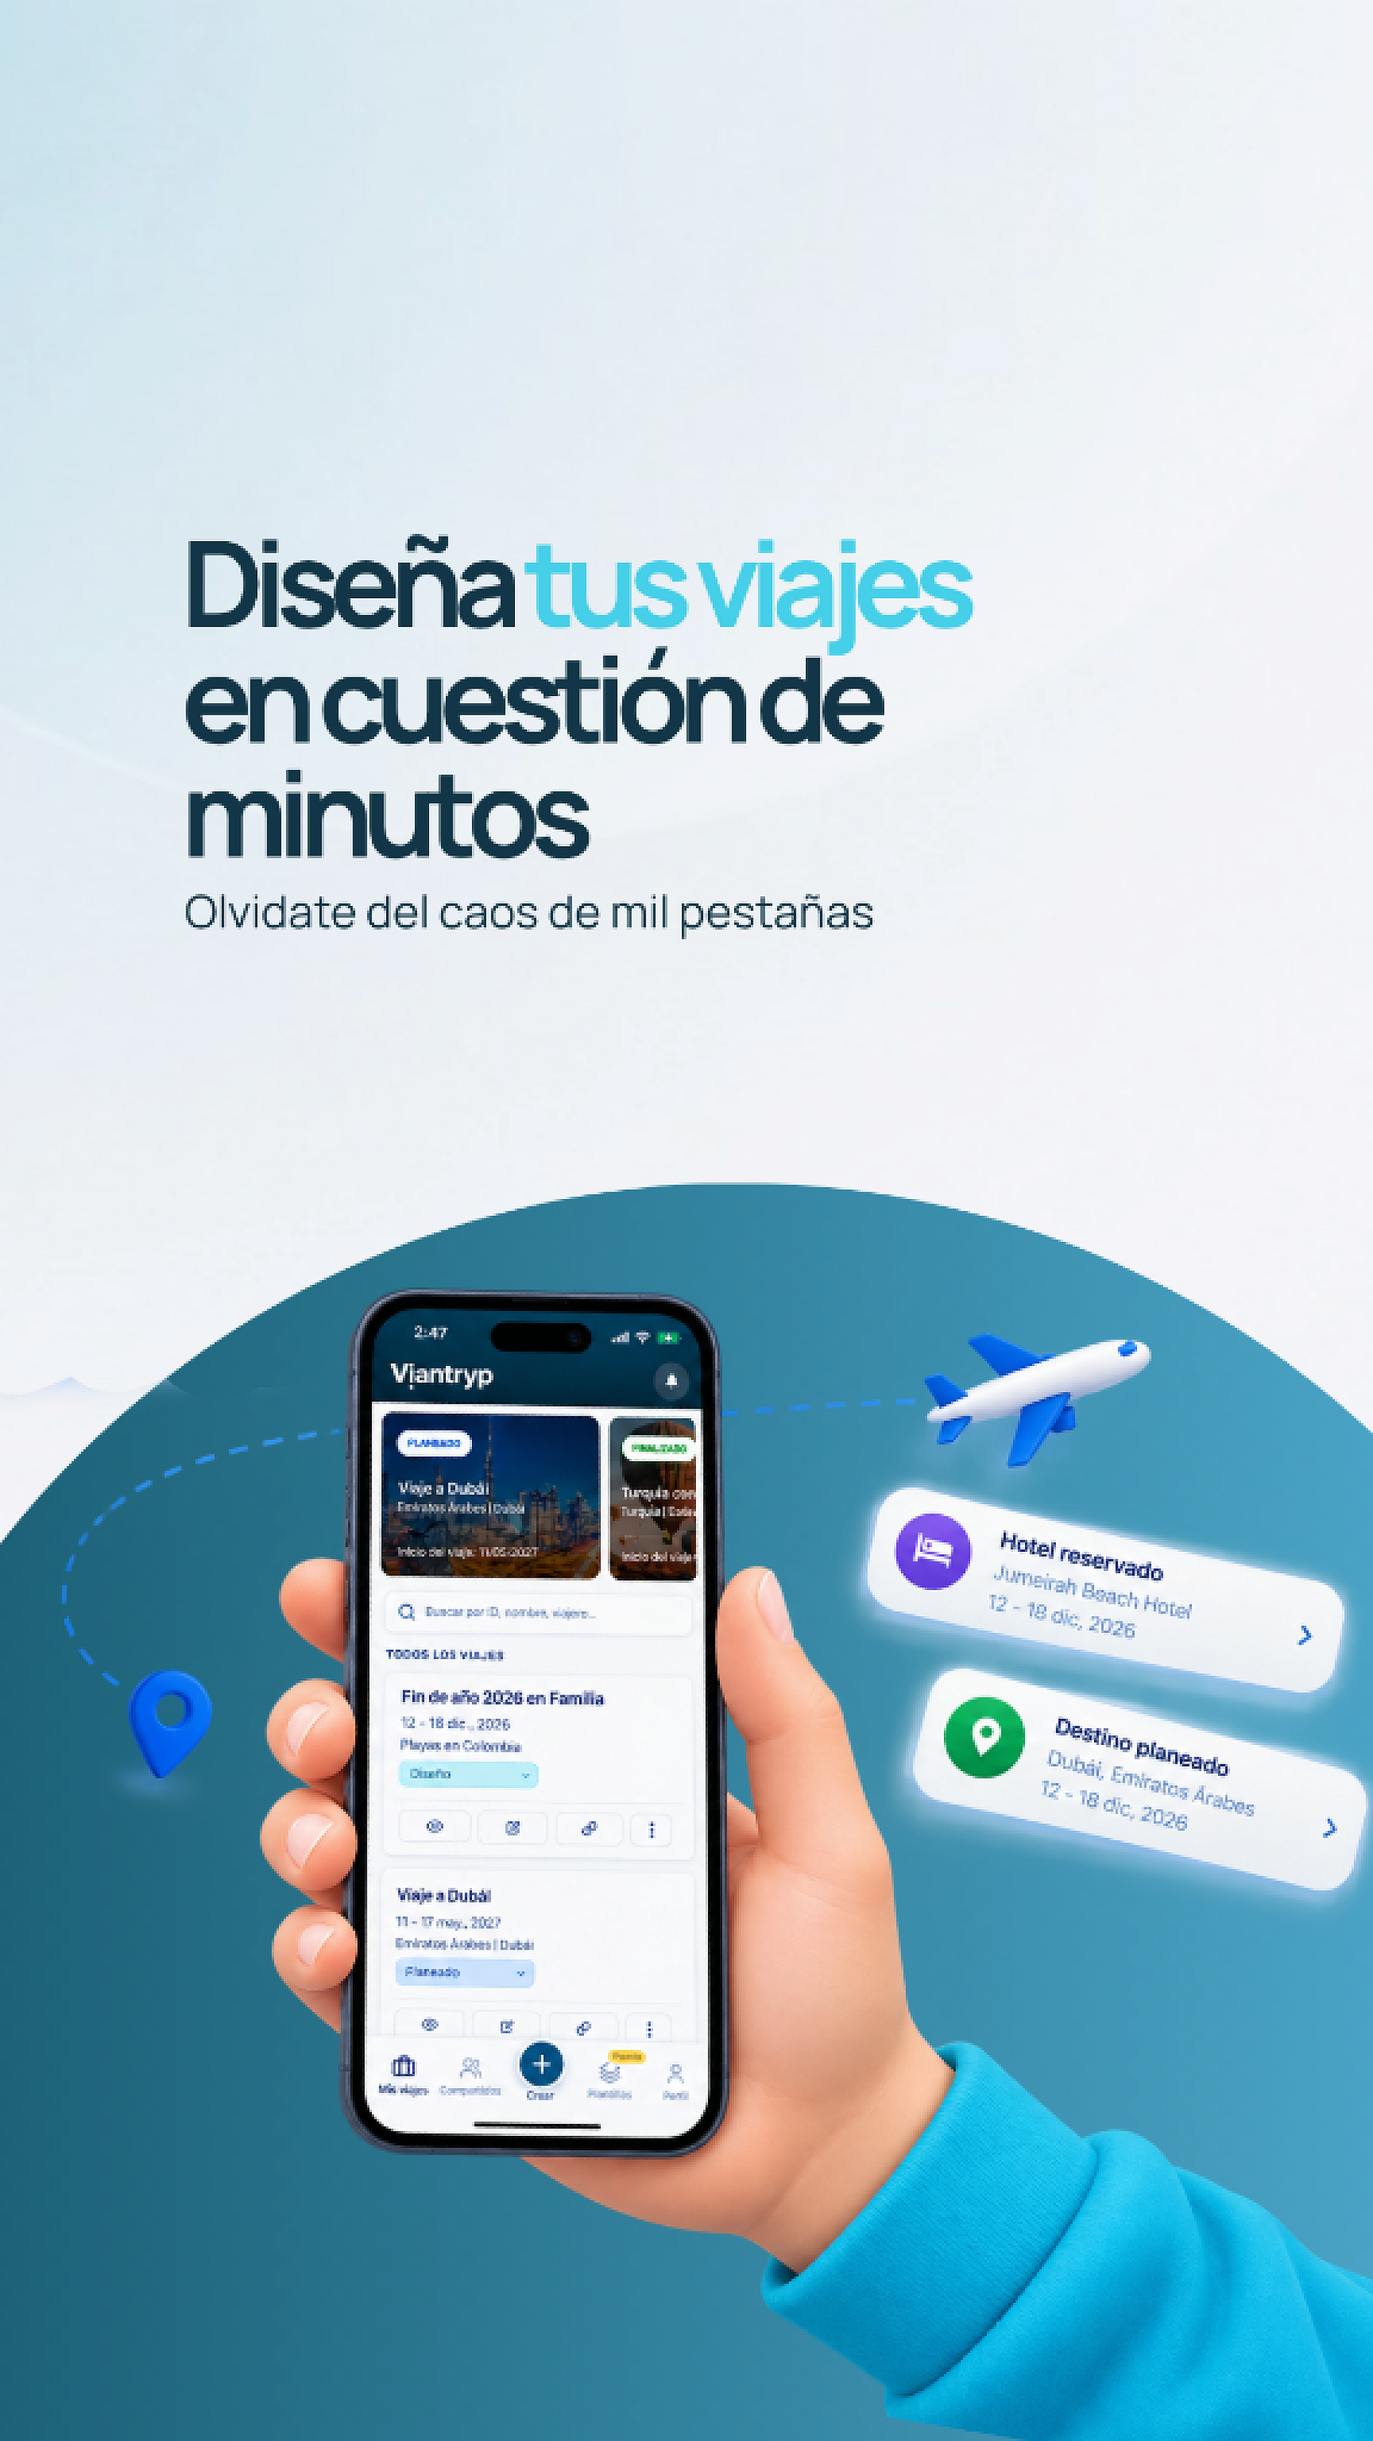
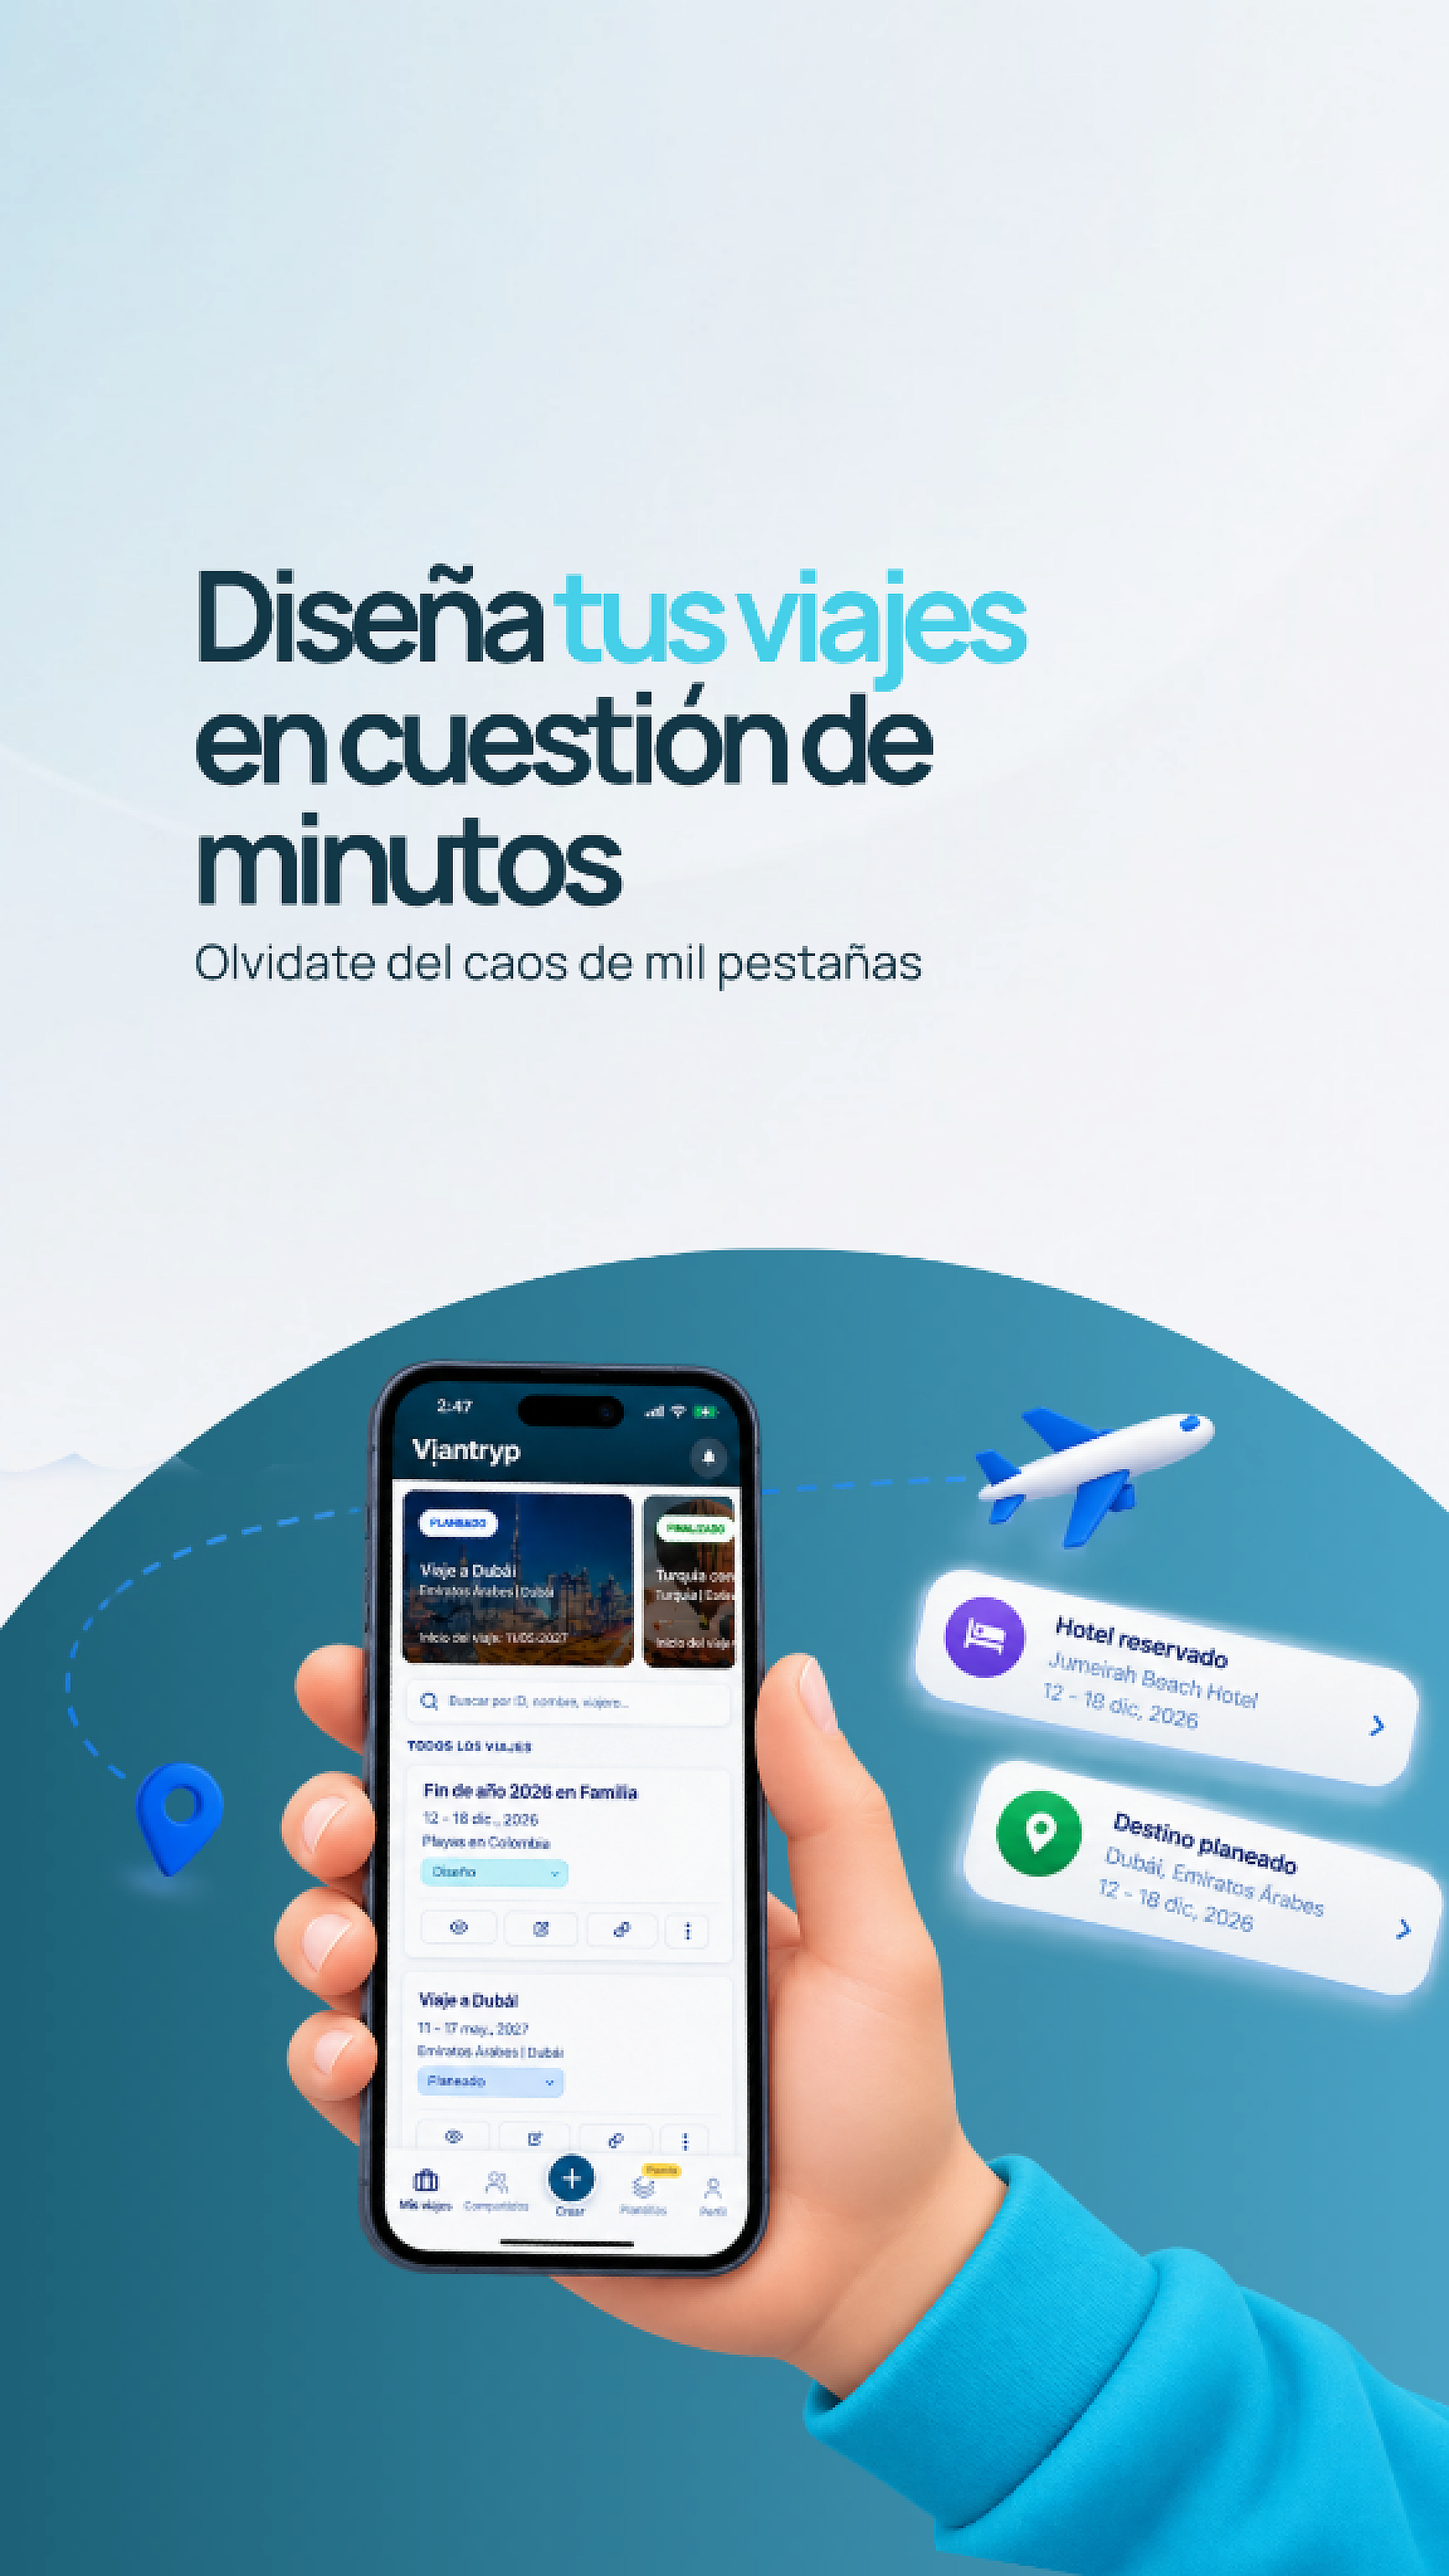
Optimize onboarding image rendering to 4K UHD with object-fit contain fitting

diff --git a/resources/views/components/onboarding-carousel.blade.php b/resources/views/components/onboarding-carousel.blade.php
@@ -78,15 +78,15 @@
 
   /* Slide Color Fill matching image header tone */
   .slide-1 { background: #1b5a6c; }
-  .slide-2 { background: #cfebf6; }
-  .slide-3 { background: #d1e5ee; }
+  .slide-2 { background: #eef7fb; }
+  .slide-3 { background: #eef6fc; }
   .slide-4 { background: #3889a6; }
 
-  /* Clean PNG Image Container - Smooth 3K Ultra-HD Rendering */
+  /* Clean PNG Image Container - 4K Crisp Anti-Aliased Fitting */
   .onboarding-img {
     width: 100%;
     height: 100%;
-    object-fit: cover;
+    object-fit: contain;
     object-position: center top;
     display: block;
     user-select: none;
@@ -229,22 +229,22 @@
       <div class="swiper-wrapper">
         <!-- Slide 1 -->
         <div class="swiper-slide slide-1">
-          <img src="{{ asset('images/onboarding/app1.png') }}?v=20260921_super_hd_4k" alt="Viantryp" class="onboarding-img" loading="eager">
+          <img src="{{ asset('images/onboarding/app1.png') }}?v=20260921_4k_uhd_crisp" alt="Viantryp" class="onboarding-img" loading="eager">
         </div>
 
         <!-- Slide 2 -->
         <div class="swiper-slide slide-2">
-          <img src="{{ asset('images/onboarding/app2.png') }}?v=20260921_super_hd_4k" alt="Diseña tus viajes en cuestión de minutos" class="onboarding-img" loading="eager">
+          <img src="{{ asset('images/onboarding/app2.png') }}?v=20260921_4k_uhd_crisp" alt="Diseña tus viajes en cuestión de minutos" class="onboarding-img" loading="eager">
         </div>
 
         <!-- Slide 3 -->
         <div class="swiper-slide slide-3">
-          <img src="{{ asset('images/onboarding/app3.png') }}?v=20260921_super_hd_4k" alt="Plasma tu viaje en solo 3 pasos" class="onboarding-img" loading="eager">
+          <img src="{{ asset('images/onboarding/app3.png') }}?v=20260921_4k_uhd_crisp" alt="Plasma tu viaje en solo 3 pasos" class="onboarding-img" loading="eager">
         </div>
 
         <!-- Slide 4 -->
         <div class="swiper-slide slide-4">
-          <img src="{{ asset('images/onboarding/app4.png') }}?v=20260921_super_hd_4k" alt="Todo lo que necesitas en un solo lugar" class="onboarding-img" loading="eager">
+          <img src="{{ asset('images/onboarding/app4.png') }}?v=20260921_4k_uhd_crisp" alt="Todo lo que necesitas en un solo lugar" class="onboarding-img" loading="eager">
         </div>
       </div>
     </div>
